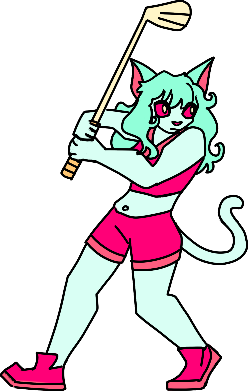
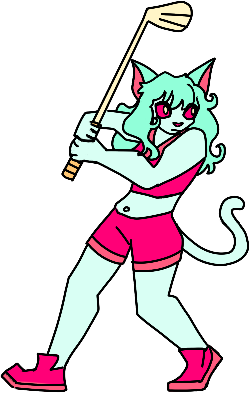
these girls run! (backwards)

diff --git a/game_objects.py b/game_objects.py
@@ -107,7 +107,15 @@ class Player(EntityMovable):
         self.healthbar = pygame.transform.scale(pygame.image.load("./assets/imgs/healthbar.png").convert_alpha(), (300, 100))
 
         self.sprite = [{"idler": pygame.image.load("./assets/imgs/cat1idle.png").convert_alpha(), "airr": pygame.image.load("./assets/imgs/cat1air.png").convert_alpha()},
-                       {"idler": pygame.image.load("./assets/imgs/cat2idle.png").convert_alpha(), "airr": pygame.image.load("./assets/imgs/cat2air.png").convert_alpha()}] #load in drawn frames
+                       {"idler": pygame.image.load("./assets/imgs/cat2idle.png").convert_alpha(), "airr": pygame.image.load("./assets/imgs/cat2air.png").convert_alpha()}]#load in drawn frames
+
+        for n in ["0", "1", "2", "3", "4"]:
+            self.sprite[0].update({"run" + n + "r": pygame.image.load("./assets/imgs/cat1run" + n + ".png").convert_alpha()})
+            self.sprite[0].update({"run" + n + "l": pygame.transform.flip(self.sprite[0]["run" + n + "r"], True, False)})
+
+        for n in ["0", "1", "2", "3", "4", "5"]:
+            self.sprite[1].update({"run" + n + "r": pygame.image.load("./assets/imgs/cat2run" + n + ".png").convert_alpha()})
+            self.sprite[1].update({"run" + n + "l": pygame.transform.flip(self.sprite[1]["run" + n + "r"], True, False)})
 
         for s in ["idle", "air"]:
             for c in [0, 1]:
@@ -143,7 +151,10 @@ class Player(EntityMovable):
         self.touchingFloor = self.y >= GROUNDHEIGHT
 
         if self.touchingFloor: #makes you not falling if youre on ground
-            self.mystate = "idle"
+            if abs(self.velx) < 0.1:
+                self.mystate = "idle"
+            else:
+                self.mystate = "run" + str(int((self.x / 100) % (5 + self.id)))
             self.velx /= FRICTION
             self.vely = 0
             self.y = GROUNDHEIGHT

diff --git a/main.py b/main.py
@@ -36,4 +36,3 @@ while running:
             handleMove(entities["p2"], player2controls, event, timer, state)
         if event.type == pygame.QUIT:
             running = False
-
